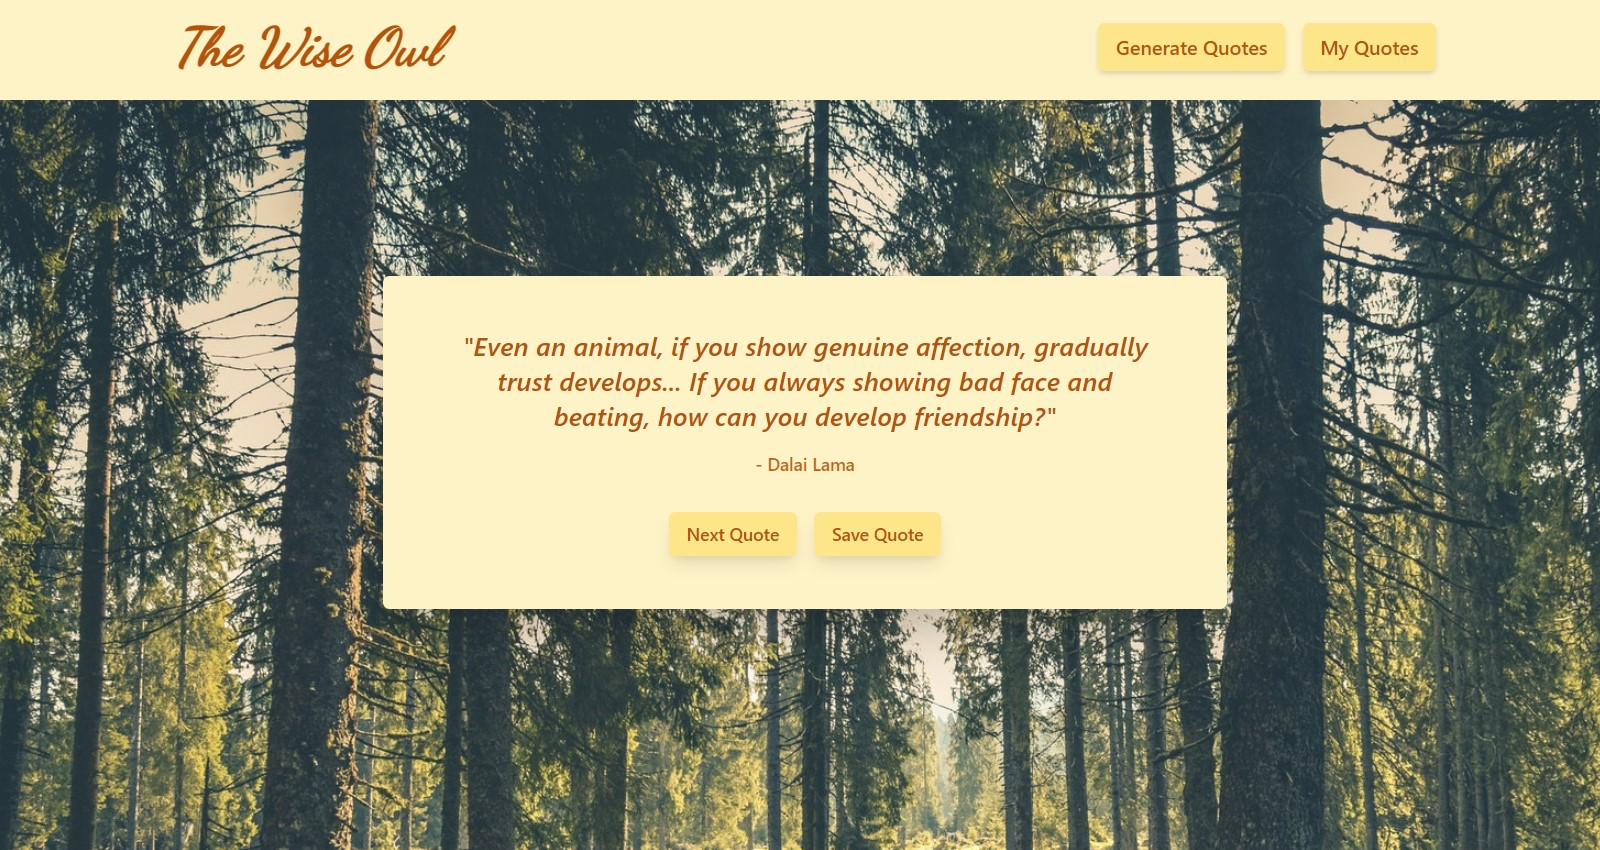
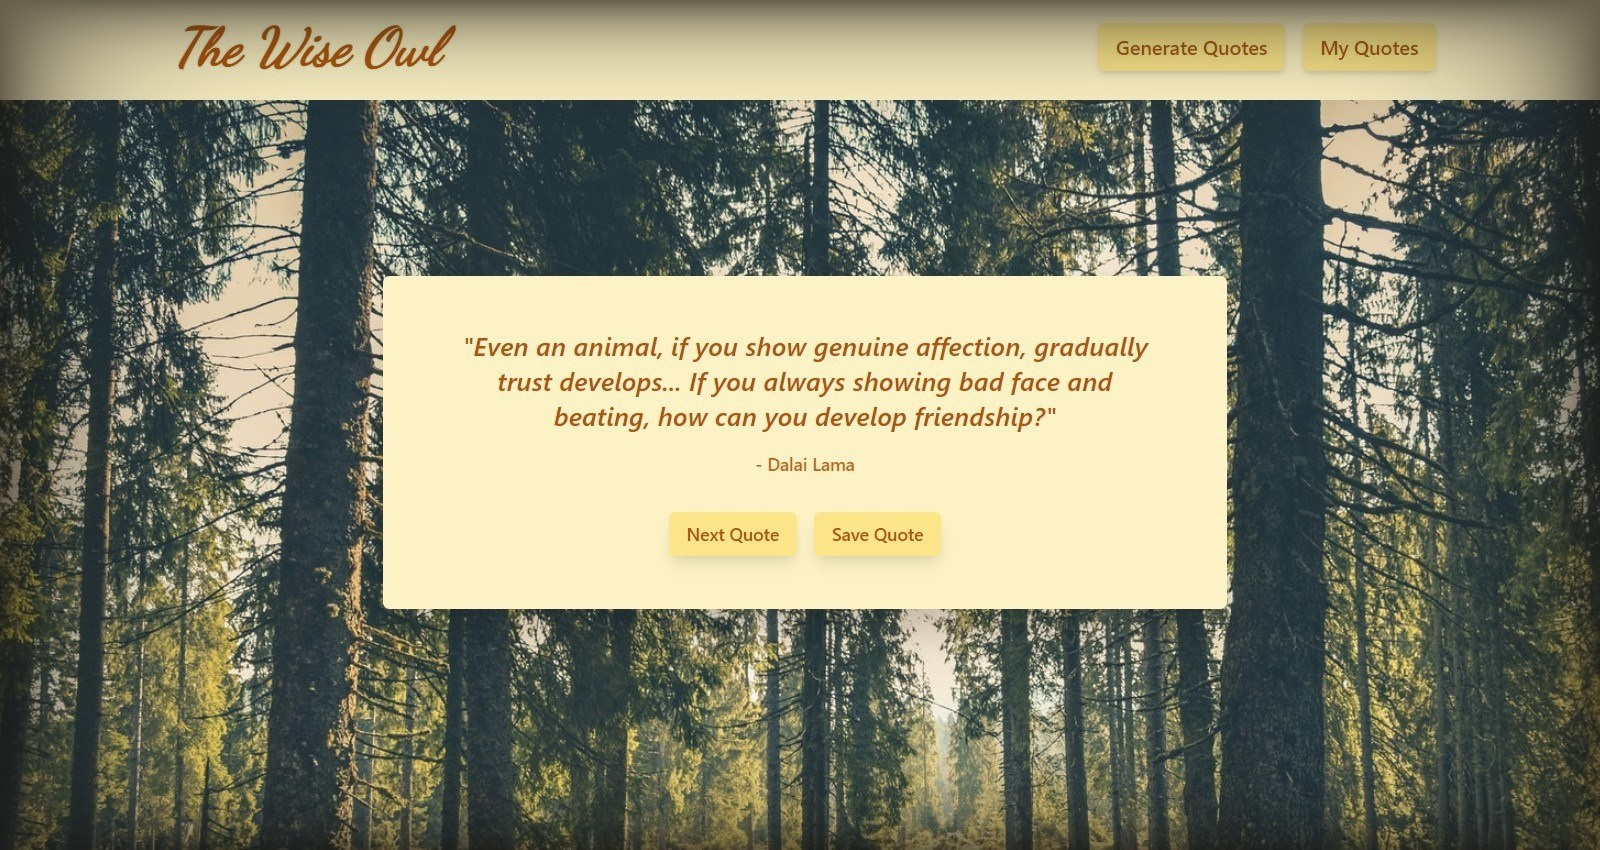
added vignettes, increased top margin on button

Changed region(s): [[0.0, 0.0, 1.0, 1.0]]

diff --git a/components/kp-website/HomeProjects.js b/components/kp-website/HomeProjects.js
@@ -46,11 +46,11 @@ function Projects() {
 							labels={project.labels}
 						/>
 					))}
-					<a
-						className='text-sm mt-12 hover:scale-105 transform-gpu transition-transform duration-200 lg:text-lg  px-4 py-2 font-semibold tracking-wider text-gray-100  border-2 border-green-400 rounded-[0.2rem] cursor-pointer'
+					<button
+						className='text-md mt-14 lg:mt-20 hover:scale-105 transform-gpu transition-transform duration-200 lg:text-lg  px-4 py-2 font-semibold tracking-wider text-gray-100  border-2 border-green-400 rounded-[0.2rem] cursor-pointer'
 						onClick={() => setProjectsHidden(prev => !prev)}>
 						{projectsHidden ? 'Show More' : 'Show Less'}
-					</a>
+					</button>
 				</div>
 			</div>
 		</section>
